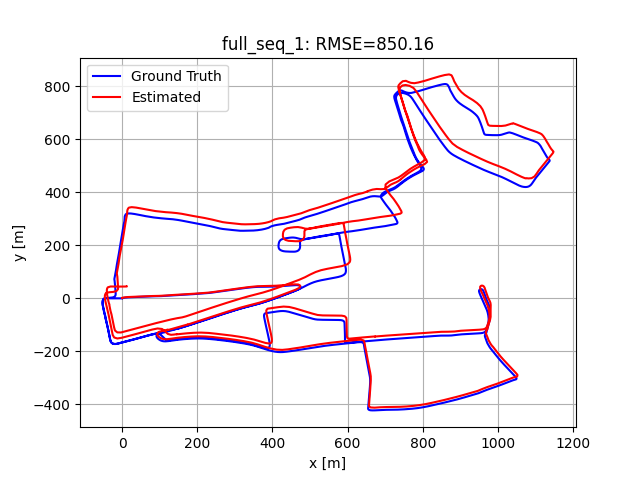
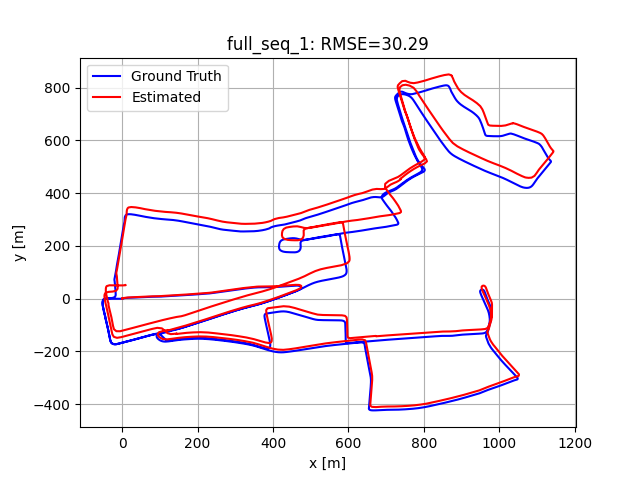
distance formula fix

diff --git a/trajectoryPlotting.py b/trajectoryPlotting.py
@@ -43,7 +43,7 @@ class Trajectory():
         @brief Compute the Root Mean Square Error between the prediction and the actual trajectory
         '''
         estimatedPoses = estTraj.getPoseAtTime(self.timestamps)
-        rmse = np.sqrt(np.mean((np.linalg.norm(self.poses - estimatedPoses))**2))
+        rmse = np.sqrt(np.mean((np.linalg.norm(self.poses - estimatedPoses, axis=-1))**2))
         return rmse
 
 def getGroundTruthTrajectory(gtPath : str):
